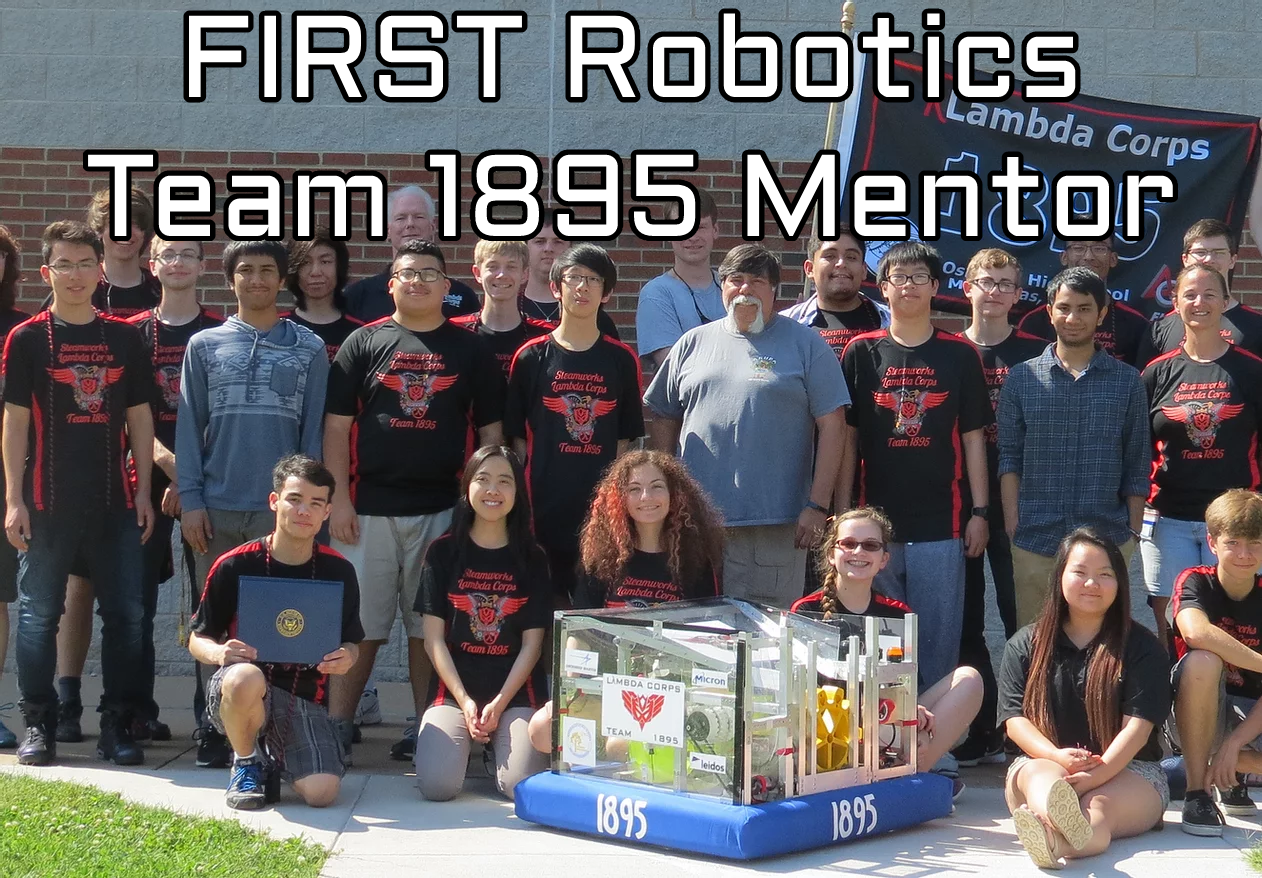
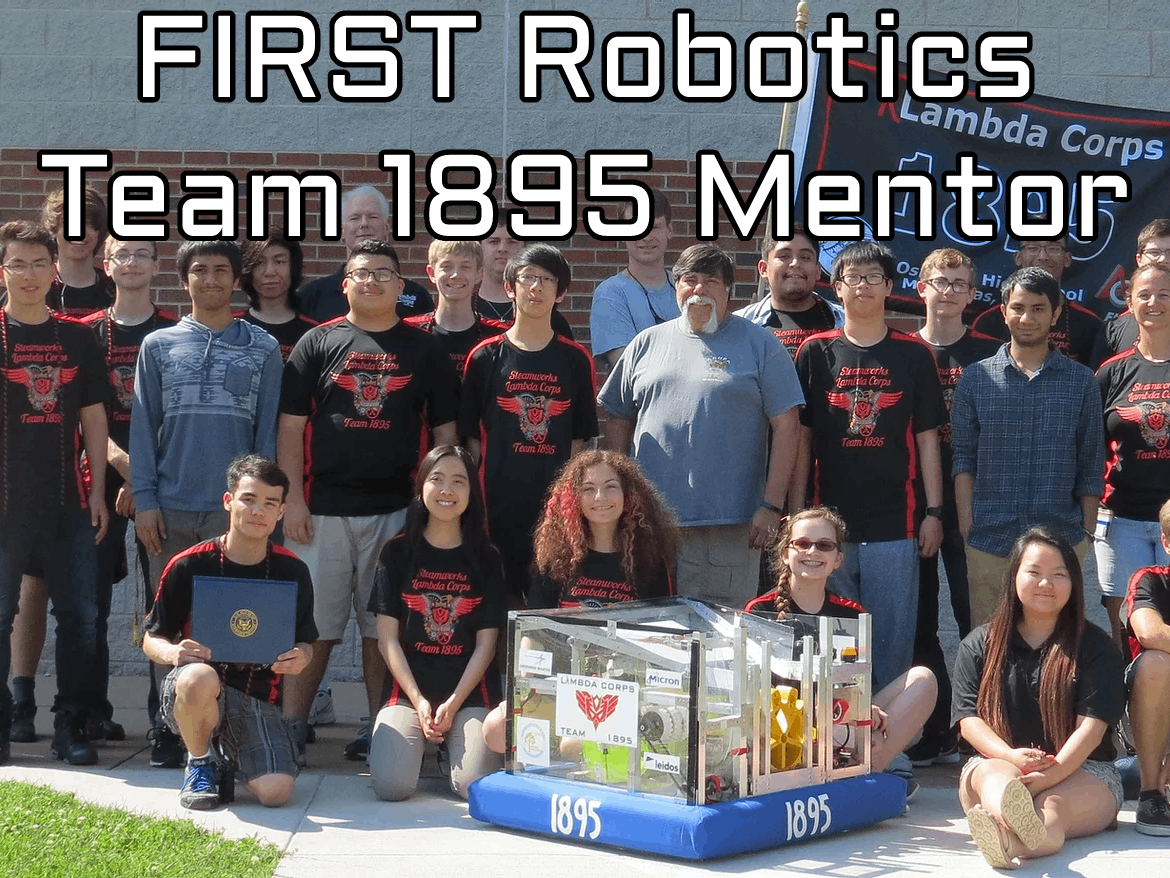
Picture rework + General Upkeep
Made all pictures 4:3

diff --git a/public/index.html b/public/index.html
@@ -274,7 +274,7 @@
             </div>
 
             <div class="progress">
-              <span class="skill">HTMl/JavaScript/CSS <i class="val">50%</i></span>
+              <span class="skill">HTMl/JavaScript/CSS <i class="val">65%</i></span>
               <div class="progress-bar-wrap">
                 <div class="progress-bar" role="progressbar" aria-valuenow="50" aria-valuemin="0" aria-valuemax="100"></div>
               </div>
@@ -380,7 +380,9 @@
               <p><em>Austin, Texas </em></p>
               <ul>
                 <li>Hired as a Design Engineer at Firefly Aerospace in August of 2021.</li>
-                <li>Used NX to design critical components for Firefly's Reaver Engines.</li>
+                <li>Use Seimens NX to design critical components for Firefly's Reaver Engines.</li>
+                <li>Lead the design of several critical Subsystems for Customers of Firefly Aerospace.</li>
+                <li>Worked on various projects including Firefly's Lunar Lander project called 'Blue Ghost'.</li>
               </ul>
             </div>
             <div class="resume-item">
@@ -455,7 +457,7 @@
           <div class="col-lg-4 col-md-6 portfolio-item filter-app">
             <a href="StealthBot.html" class="item-wrap fancybox">
               <div class="portfolio-wrap">
-                <img src="assets/img/portfolio/StealthBot1.jpg" class="img-fluid" alt="Stealthbot">
+                <img src="assets/img/portfolio/StealthBot1.png" class="img-fluid" alt="Stealthbot">
               </div>
             </a>
           </div>
@@ -502,7 +504,7 @@
           <div class="col-lg-4 col-md-6 portfolio-item filter-card">
             <a href="Candles.html" class="item-wrap fancybox">
               <div class="portfolio-wrap">
-                <img src="assets/img/portfolio/Candles1.jpg" class="img-fluid" alt="Candle Company">
+                <img src="assets/img/portfolio/Candles1.png" class="img-fluid" alt="Candle Company">
               </div>
             </a>
           </div>
